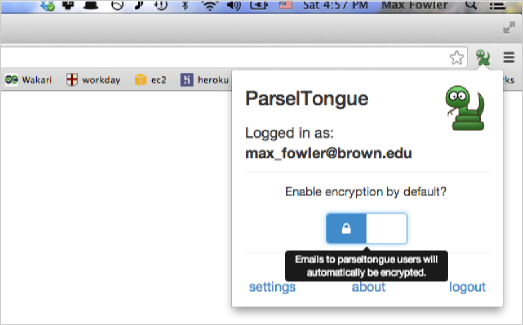
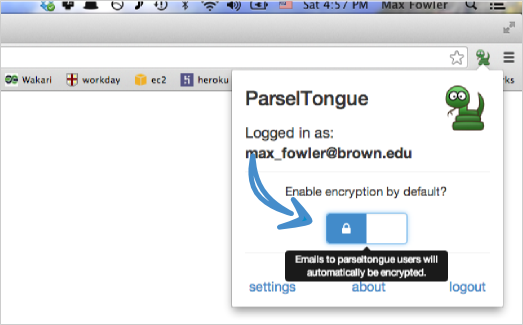
changing screenshots tutorial background changed from blue to black

Changed region(s): [[0.4589, 0.4615, 0.6119, 0.7077]]

diff --git a/truespeak/static/css/tutorial_snippet.css b/truespeak/static/css/tutorial_snippet.css
@@ -7,10 +7,10 @@
 
 .carousel-control.right, .carousel-control.left {
     background-image: none;
-    background-color: #428bca;
-    /* half of carousel-inner height is 207.5px,
+    background-color: black;
+    /* half of carousel-inner height is 202.5px,
     half of carousel-control height is 25px */
-    top: 182px;
+    top: 177px;
     width: 50px;
     height: 50px;
     border-radius: 25px;
@@ -34,10 +34,10 @@
     screenshots have height 325px,
     carousel-captions have height 90px
     */
-    height: 415px;
+    height: 405px;
 }
 .carousel-indicators {
-    bottom: -5px;
+    bottom: 40px;
 }
 
 .carousel-indicators .active {
@@ -61,10 +61,11 @@
 
 .carousel-caption {
     padding: 10px;
-    height: 90px;
-    bottom: -88px;
+    padding-top: 35px;
+    height: 80px;
+    bottom: -78px;
     color: white;
-    background-color: #428bca;
+    background-color: black;
     width:523px;
     margin:auto;
     right: 0;
